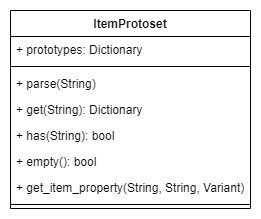
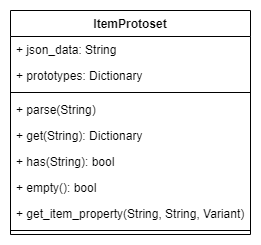
Updating README.md

diff --git a/README.md b/README.md
@@ -10,15 +10,13 @@ An universal inventory system for the Godot game engine (version 3.x and newer).
 
 ### Inventory Items
 
-* ![](images/icon_item.svg "InventoryItem icon") `InventoryItem` - Basic inventory item class. Nameless, weightless and shapeless.
-* ![](images/icon_item_stackable.svg "InventoryItemStackable icon") `InventoryItemStackable` - Represents a stack of inventory items. Item stacks can be split up and joined together. The total weight of a stack equals its size multiplied by the unit weight of the item. Inherits InventoryItem.
-* ![](images/icon_item_rect.svg "InventoryItemRect icon") `InventoryItemRect` - Inventory item that takes up a predefined amount of 2d space in a grid-based inventory (see `InventoryGrid` below). The size of the item is defined by its weight and height, while its position is defined by x and y coordinates. Rectangular items can also be rotated by 90 degrees for easier inventory organization. In case the item has been rotated, its width and height values are swapped and its "rotated" flag is set. Inherits InventoryItem.
+* ![](images/icon_item.svg "InventoryItem icon") `InventoryItem` - Inventory item class. It is based on an item prototype from an `ItemProtoset` resource. Can hold additional properties.
 
 ### Inventory Types
 
 * ![](images/icon_inventory.svg "Inventory icon") `Inventory` - Basic inventory class. Supports basic inventory operations (adding, removing, transferring items etc.). Can contain an unlimited amount of items.
-* ![](images/icon_inventory_stacked.svg "InventoryStacked icon") `InventoryStacked` - Contains `InventoryItemStackable` items and has a limited item capacity in terms of weight. Inherits Inventory.
-* ![](images/icon_inventory_grid.svg "InventoryGrid icon") `InventoryGrid` - Contains `InventoryItemRect` items and has a limited capacity in terms of space. The inventory capacity is defined by its width and height. Inherits Inventory.
+* ![](images/icon_inventory_stacked.svg "InventoryStacked icon") `InventoryStacked` - Has a limited item capacity in terms of weight. Inherits Inventory.
+* ![](images/icon_inventory_grid.svg "InventoryGrid icon") `InventoryGrid` - Has a limited capacity in terms of space. The inventory capacity is defined by its width and height. Inherits Inventory.
 
 ### Item Slots
 
@@ -38,7 +36,7 @@ An universal inventory system for the Godot game engine (version 3.x and newer).
 
 ## Usage
 
-1. Create an `ItemProtoset` resource that will hold all the item prototypes used by the inventory. The resource has a single property `json_data` that holds all item prototype information in JSON format.
+1. Create an `ItemProtoset` resource that will hold all the item prototypes used by the inventory. The resource has a single property `json_data` that holds all item prototype information in JSON format (see *Creating Item Prototypes* below).
 2. Create an inventory node in your scene. Set its capacity if needed (required for `InventoryStacked` and `InventoryGrid`) and set its `item_protoset` property (previously created).
 3. To add items to the inventory set its `contents` property. List the prototype IDs of the items that you want added to the inventory.
     **NOTE**: Pay attention to the inventory capacity to avoid assertions when the scene is loaded.
@@ -49,7 +47,7 @@ An universal inventory system for the Godot game engine (version 3.x and newer).
 ## Creating Item Prototypes
 
 Item protosets represent a number of item prototypes based on which future inventory items will be created.
-It also defines the type of the inventory these items will be contained in.
+An item prototype is defined by its ID and its properties.
 
 ### Minimal Item Protoset JSON
 
@@ -72,31 +70,32 @@ Below is an example of a minimal item protoset JSON:
 
 Prototypes of items contained in stack based inventories support the following additional properties:
 
-* `default_stack_size` - Defines the default stack size of the item. Newly created items that use this prototype will have this stack size. Has the value of 1 if not defined.
+* `stack_size` - Defines the default stack size of the item. Newly created items that use this prototype will have this stack size. Has the value of 1 if not defined.
 * `weight` - Defines the unit weight of the item. Has the value of 1.0 if not defined.
     **NOTE**: The total weight of an item is defined as its unit weight multiplied by its stack size.
 
 Example:
 ```json
-{
-    "inventory_type": "stack",
-    "items_prototypes": [
-        {
-            "id": "stackable_item",
-            "default_stack_size": 10
-        },
-        {
-            "id": "heavy_item",
-            "weight": 20
-        },
-        {
-            "id": "very_heavy_item",
-            "default_stack_size": 10
-            "weight": 20
-        }
-    ]
-}
+[
+    {
+        "id": "stackable_item",
+        "stack_size": 10
+    },
+    {
+        "id": "heavy_item",
+        "weight": 20.0
+    },
+    {
+        "id": "very_heavy_item",
+        "stack_size": 10,
+        "weight": 20.0
+    }
+]
 ```
+
+The total weight of a `stackable_item` is 10 - The unit weight is not defined and the default value of 1.0 is used. Multiplied with `stack_size` of 10 gives a total weight of 10.0.
+The total weight of a `heavy_item` is 20.0 - The stack size is not defined and the default value of 1 is used. Multiplied with `weight` of 20.0 gives a total weight of 20.0.
+The total weight of a `very_heavy_item` is 200.0 - The stack size of 10 is multiplied with the unit weight of 20.0.
 
 ### Item prototypes for a Grid Based Inventory
 
@@ -107,26 +106,23 @@ Prototypes of items contained in stack based inventories support the following a
 
 Example:
 ```json
-{
-    "inventory_type": "grid",
-    "items_prototypes": [
-        {
-            "id": "1x1_knife",
-            "width": 1,
-            "height": 1
-        },
-        {
-            "id": "1x3_spear",
-            "width": 1,
-            "height": 3
-        },
-        {
-            "id": "2x2_bomb",
-            "width": 2,
-            "height": 2
-        },
-    ]
-}
+[
+    {
+        "id": "1x1_knife",
+        "width": 1,
+        "height": 1
+    },
+    {
+        "id": "1x3_spear",
+        "width": 1,
+        "height": 3
+    },
+    {
+        "id": "2x2_bomb",
+        "width": 2,
+        "height": 2
+    }
+]
 ```
 
 ### Additional Prototype Fields
@@ -145,26 +141,20 @@ Example:
 ]
 ```
 
-Any of the item properties can be access from code through the `get_prototype()` and `get_prototype_property()` methods of the `InventoryItem` classes:
+Any of the item properties can be accessed from code through the `get_property()` methods of the `InventoryItem` classes:
 ```
-var item_name = ""
-if item.get_prototype().has("name"):
-    item_name = item.get_prototype()["name"]
-var item_description = item.get_prototype_property("description", "")
+var item_name = item.get_property("name", "")
+var item_description = item.get_property("description", "")
 ```
 
-## Creating New Inventory Types
+### Editing item properties
 
-Coming up with new inventory types can be done by inheriting from one of the available inventory classes (`Inventory`, `InventoryStacked` or `InventoryGrid`).
-In case the new inventory type is also meant to be used with a custom inventory item type (derived from `InventoryItem`), the `get_item_script()` should also be overridden so that it returns the script from which these custom items can be instantiated from.
-
-Example custom_inventory.gd
+Item properties defined in the `ItemProtoset` resource can be overridden for each individual item using the `set_property()` method and overridden property values can be cleared using the `clear_property()` method:
 ```
-extends Inventory
-class_name CustomInventory
-
-static func get_item_script() -> Script:
-    return preload("res://custom_item.gd")
+# Decrease the size of an item stack by 1
+var stack_size: int = item.get_property("stack_size")
+if stack_size > 0:
+    item.set_property("stack_size", stack_size - 1)
 ```
 
 ## The API
